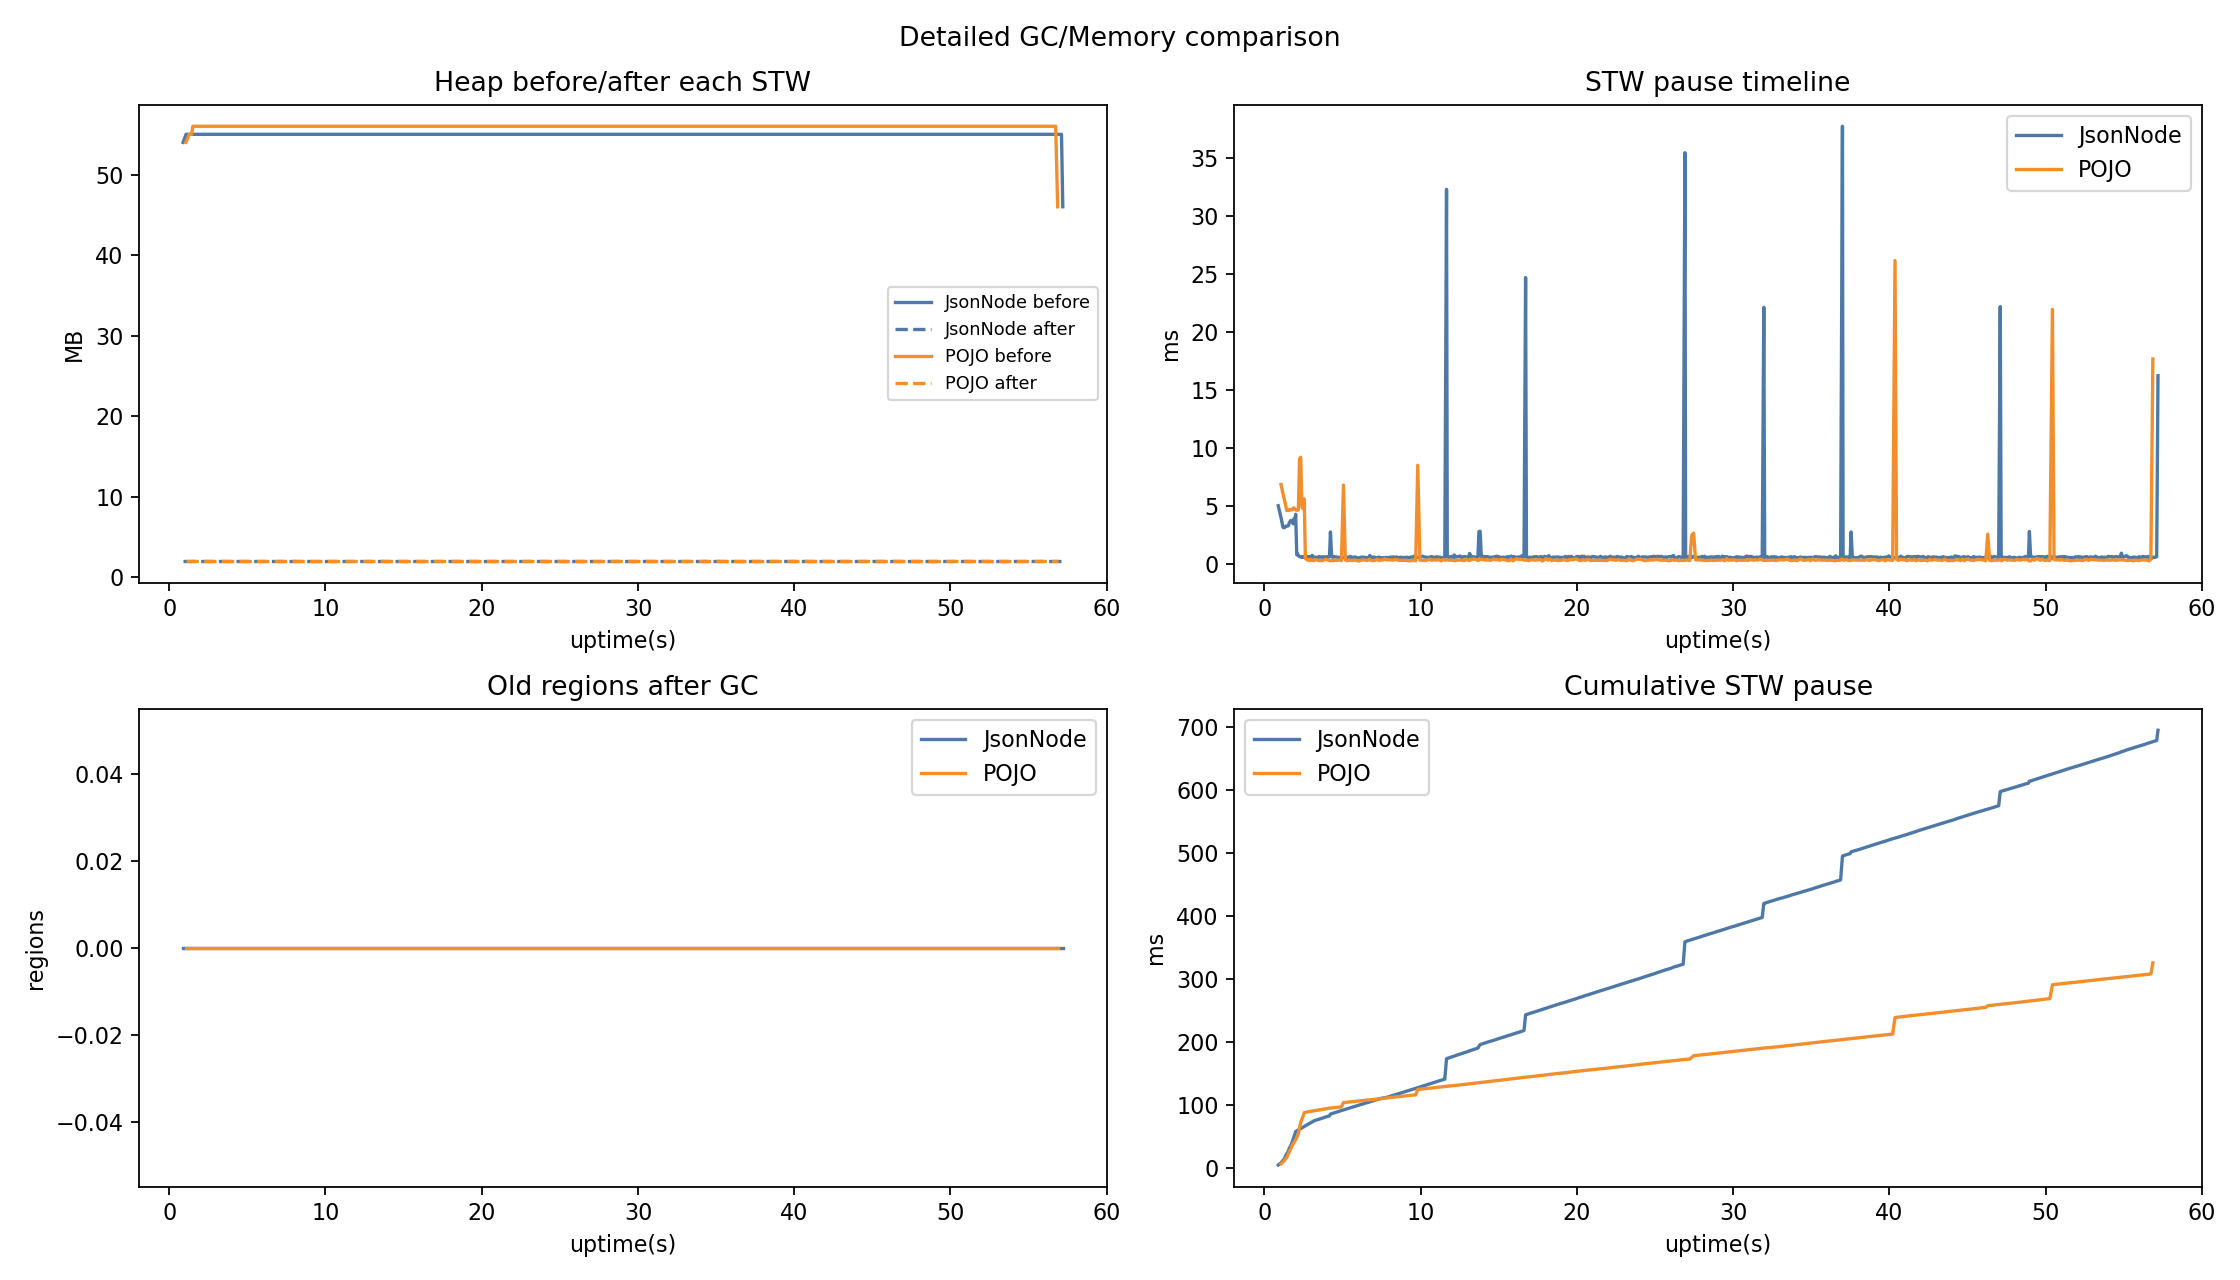
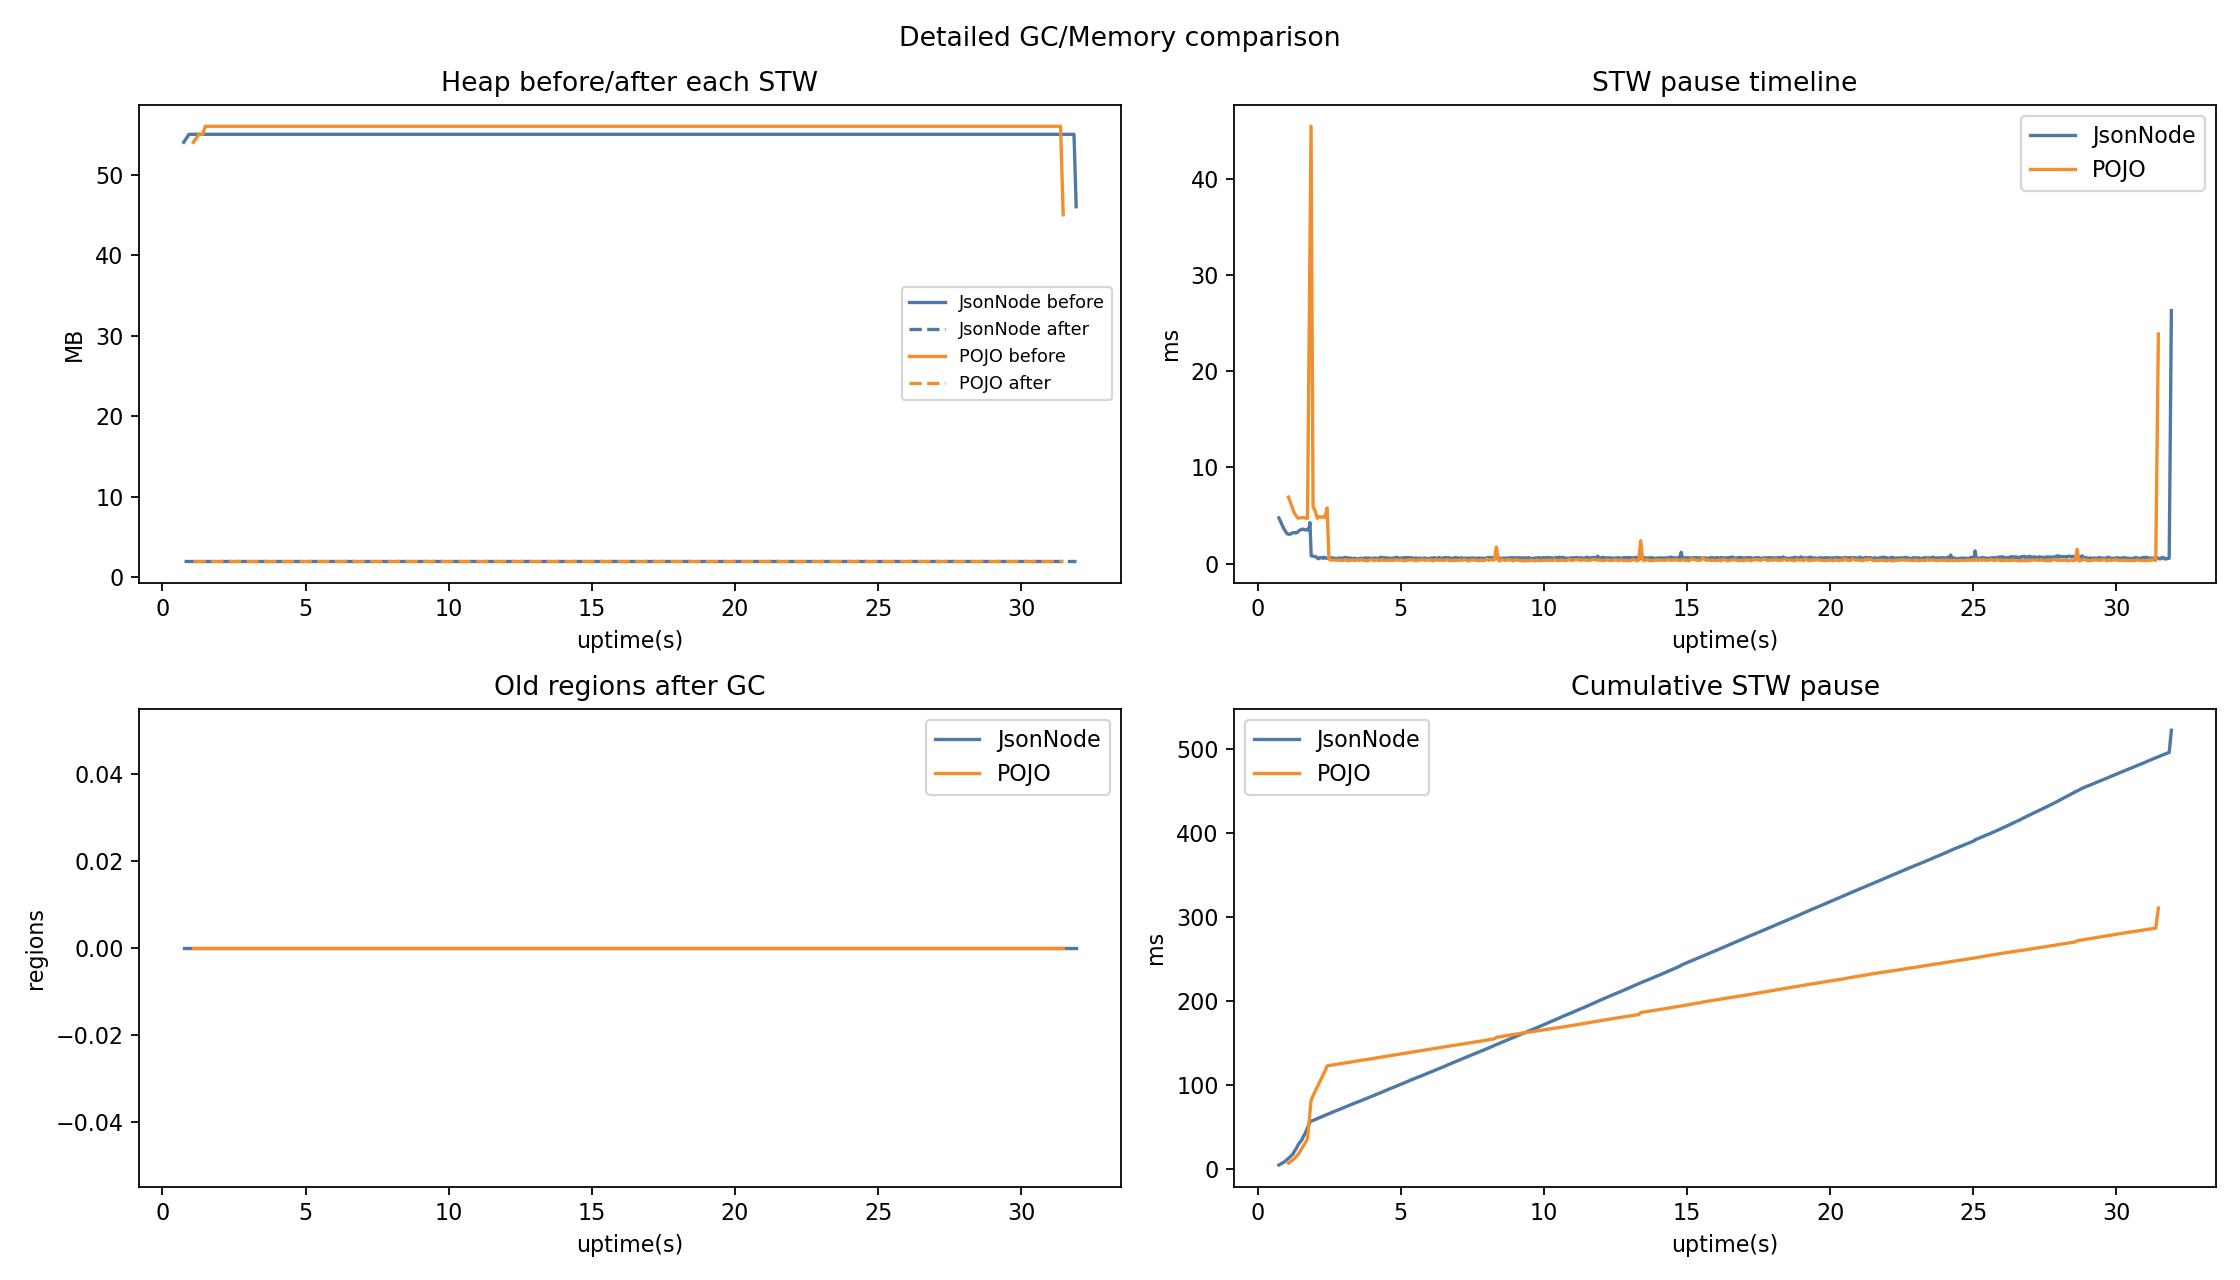
feat: auto-include CPU stats in docker report and regenerate 10M@200m artifacts

diff --git a/generate_docker_report.py b/generate_docker_report.py
@@ -1,0 +1,99 @@
+#!/usr/bin/env python3
+import argparse
+import csv
+from pathlib import Path
+
+
+def read_single_csv(path: Path):
+    with path.open() as f:
+        rows = list(csv.DictReader(f))
+    return rows[0] if rows else {}
+
+
+def read_summary(path: Path):
+    with path.open() as f:
+        rows = list(csv.DictReader(f))
+    out = {}
+    for r in rows:
+        out[r['mode']] = r
+    return out
+
+
+def read_stats(path: Path):
+    cpus = []
+    mems = []
+    with path.open() as f:
+        r = csv.DictReader(f)
+        for row in r:
+            try:
+                cpus.append(float(str(row['cpu']).replace('%', '').strip()))
+                mems.append(float(row['mem_used_mb']))
+            except Exception:
+                pass
+    if not cpus:
+        return None
+    return {
+        'cpu_avg': sum(cpus)/len(cpus),
+        'cpu_peak': max(cpus),
+        'mem_avg': sum(mems)/len(mems) if mems else 0.0,
+        'mem_peak': max(mems) if mems else 0.0,
+        'samples': len(cpus)
+    }
+
+
+def main():
+    ap = argparse.ArgumentParser()
+    ap.add_argument('--out-subdir', required=True)
+    ap.add_argument('--out-root', default='out')
+    ap.add_argument('--reports-root', default='reports')
+    args = ap.parse_args()
+
+    out_dir = Path(args.out_root) / args.out_subdir
+    rep_dir = Path(args.reports_root) / args.out_subdir
+    rep_dir.mkdir(parents=True, exist_ok=True)
+
+    j = read_single_csv(out_dir / 'jsonnode.csv')
+    p = read_single_csv(out_dir / 'pojo.csv')
+    g = read_summary(out_dir / 'gc_memory_detailed_summary.csv')
+    s = read_stats(out_dir / 'docker_stats.csv') if (out_dir / 'docker_stats.csv').exists() else None
+
+    def num(v, d=2):
+        try:
+            return f"{float(v):.{d}f}"
+        except Exception:
+            return str(v)
+
+    throughput_gain = (float(p['rows_per_sec']) - float(j['rows_per_sec'])) / float(j['rows_per_sec']) * 100.0
+    time_gain_ms = float(j['millis']) - float(p['millis'])
+
+    lines = []
+    lines.append(f"# Docker Benchmark Report ({args.out_subdir})\n")
+    lines.append("## Single-run benchmark results\n")
+    lines.append(f"- JsonNode: {j['millis']} ms, {num(j['rows_per_sec'])} rows/s, mem_delta={num(j['mem_delta_mb'])} MB")
+    lines.append(f"- POJO: {p['millis']} ms, {num(p['rows_per_sec'])} rows/s, mem_delta={num(p['mem_delta_mb'])} MB\n")
+    lines.append(f"- Throughput compare: **POJO {throughput_gain:+.2f}%** vs JsonNode")
+    lines.append(f"- Time compare: **POJO faster by {time_gain_ms:.0f} ms**\n")
+
+    lines.append("## GC summary\n")
+    for mode in ['JsonNode', 'POJO']:
+        row = g.get(mode, {})
+        if row:
+            lines.append(f"- {mode}: events={row.get('gc_events')}, pause_sum={num(row.get('gc_pause_sum_ms'))} ms, pause_max={num(row.get('gc_pause_max_ms'))} ms, pause_p95={num(row.get('gc_pause_p95_ms'))} ms")
+
+    if s:
+        lines.append("\n## Container CPU/Memory stats\n")
+        lines.append(f"- samples: {s['samples']}")
+        lines.append(f"- CPU avg: **{s['cpu_avg']:.2f}%**, CPU peak: **{s['cpu_peak']:.2f}%**")
+        lines.append(f"- Mem avg: **{s['mem_avg']:.2f} MB**, Mem peak: **{s['mem_peak']:.2f} MB**\n")
+
+    lines.append("## Charts\n")
+    lines.append("![gc_memory_detailed](./gc_memory_detailed.png)")
+    if s:
+        lines.append("![docker_cpu_mem_chart](./docker_cpu_mem_chart.png)")
+
+    (rep_dir / 'REPORT.md').write_text('\n'.join(lines), encoding='utf-8')
+    print(rep_dir / 'REPORT.md')
+
+
+if __name__ == '__main__':
+    main()

diff --git a/reports/docker_10m_200m/REPORT.md b/reports/docker_10m_200m/REPORT.md
@@ -1,46 +1,25 @@
-# Docker Benchmark Report (10M rows, HEAP=200m)
-
-## Run config
-- Runner: `run_docker_benchmark.sh`
-- CPU: `1.0`
-- Container memory: `1g`
-- JVM heap: `-Xms200m -Xmx200m`
-- Rows: `10,000,000`
-- Output dir: `out/docker_10m_200m`
+# Docker Benchmark Report (docker_10m_200m)
 
 ## Single-run benchmark results
-- JsonNode
-  - millis: `55,875`
-  - rows/s: `178,970.92`
-  - mem_delta_mb: `38.49`
-- POJO
-  - millis: `55,460`
-  - rows/s: `180,310.13`
-  - mem_delta_mb: `6.74`
 
-### Quick compare
-- Throughput: **POJO +0.75%** vs JsonNode
-- Time: **POJO faster by ~415ms**
+- JsonNode: 30737 ms, 325340.79 rows/s, mem_delta=38.49 MB
+- POJO: 30053 ms, 332745.48 rows/s, mem_delta=6.46 MB
 
-## GC detailed summary (from `gc_memory_detailed_summary.csv`)
-- JsonNode
-  - gc_events: `756`
-  - gc_pause_sum_ms: `694.138`
-  - gc_pause_max_ms: `37.735`
-  - gc_pause_p95_ms: `0.720`
-- POJO
-  - gc_events: `459`
-  - gc_pause_sum_ms: `325.488`
-  - gc_pause_max_ms: `26.159`
-  - gc_pause_p95_ms: `2.511`
+- Throughput compare: **POJO +2.28%** vs JsonNode
+- Time compare: **POJO faster by 684 ms**
 
-## Chart
+## GC summary
+
+- JsonNode: events=756, pause_sum=522.35 ms, pause_max=26.31 ms, pause_p95=0.73 ms
+- POJO: events=459, pause_sum=310.70 ms, pause_max=45.47 ms, pause_p95=0.50 ms
+
+## Container CPU/Memory stats
+
+- samples: 40
+- CPU avg: **93.14%**, CPU peak: **104.11%**
+- Mem avg: **0.00 MB**, Mem peak: **0.00 MB**
+
+## Charts
+
 ![gc_memory_detailed](./gc_memory_detailed.png)
-
-## Artifacts
-- `jsonnode.csv`
-- `pojo.csv`
-- `gc_memory_detailed_summary.csv`
-- Heap dumps are generated in runtime output folder:
-  - `out/docker_10m_200m/jsonnode.hprof`
-  - `out/docker_10m_200m/pojo.hprof`
+![docker_cpu_mem_chart](./docker_cpu_mem_chart.png)
